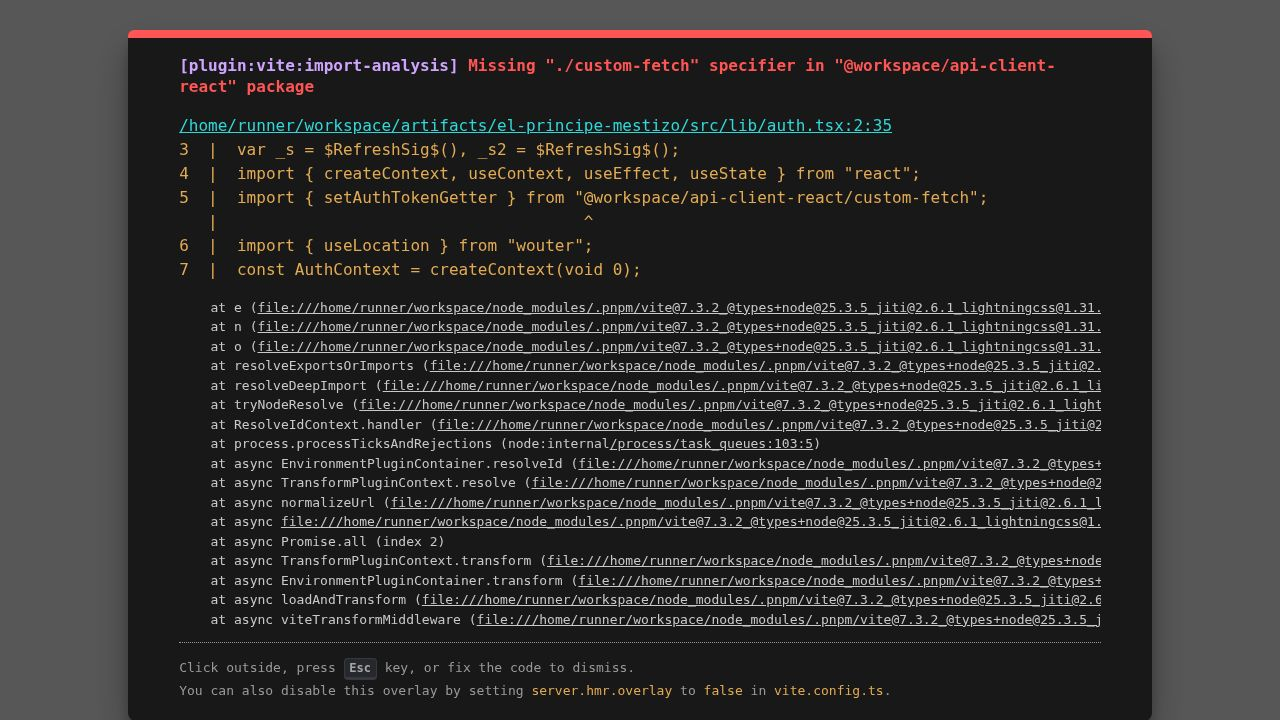
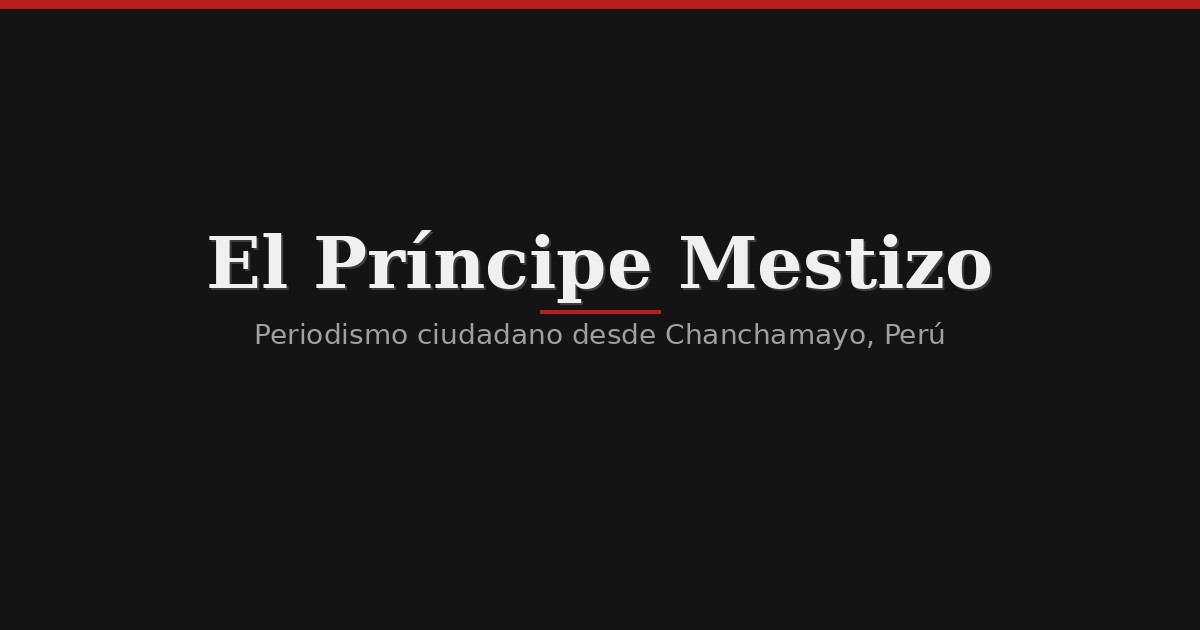
fix: reemplazar imagen OG corrupta con portada de marca correcta
- opengraph.jpg era una captura de terminal con error de Vite (170KB)
- Nueva imagen: 1200x630 JPEG con branding "El Príncipe Mestizo"
- Restaura og:image y twitter:image en index.html apuntando al nuevo archivo
- Restaura fallback /opengraph.jpg en SSR de artículos (app.ts)
- Mantiene || en vez de ?? para tratar strings vacíos como ausentes

diff --git a/artifacts/el-principe-mestizo/index.html b/artifacts/el-principe-mestizo/index.html
@@ -10,16 +10,20 @@
     <meta name="description" content="Blog de periodismo ciudadano, opinión y denuncia desde San Ramón, Chanchamayo (Perú)." />
 
     <!-- Open Graph base (Facebook, WhatsApp, LinkedIn) -->
-    <meta property="og:type"        content="website" />
-    <meta property="og:site_name"   content="El Príncipe Mestizo" />
-    <meta property="og:title"       content="El Príncipe Mestizo — Periodismo ciudadano desde Chanchamayo" />
-    <meta property="og:description" content="Blog de periodismo ciudadano, opinión y denuncia desde San Ramón, Chanchamayo (Perú)." />
-    <meta property="og:locale"      content="es_PE" />
+    <meta property="og:type"         content="website" />
+    <meta property="og:site_name"    content="El Príncipe Mestizo" />
+    <meta property="og:title"        content="El Príncipe Mestizo — Periodismo ciudadano desde Chanchamayo" />
+    <meta property="og:description"  content="Blog de periodismo ciudadano, opinión y denuncia desde San Ramón, Chanchamayo (Perú)." />
+    <meta property="og:image"        content="/opengraph.jpg" />
+    <meta property="og:image:width"  content="1200" />
+    <meta property="og:image:height" content="630" />
+    <meta property="og:locale"       content="es_PE" />
 
     <!-- Twitter Card base -->
-    <meta name="twitter:card"        content="summary" />
+    <meta name="twitter:card"        content="summary_large_image" />
     <meta name="twitter:title"       content="El Príncipe Mestizo — Periodismo ciudadano desde Chanchamayo" />
     <meta name="twitter:description" content="Blog de periodismo ciudadano, opinión y denuncia desde San Ramón, Chanchamayo (Perú)." />
+    <meta name="twitter:image"       content="/opengraph.jpg" />
 
     <!-- ═══════════════════════════════════════════════════════════
          PWA — Progressive Web App

diff --git a/artifacts/api-server/src/app.ts b/artifacts/api-server/src/app.ts
@@ -127,7 +127,7 @@ app.get("/articulo/:slug", async (req: Request, res: Response): Promise<void> =>
         ? rawImage
         : rawImage
           ? `${frontendUrl}${rawImage.startsWith("/") ? "" : "/"}${rawImage}`
-          : "",
+          : `${frontendUrl}/opengraph.jpg`,
     );
 
     const publishedAt = article.publishedAt